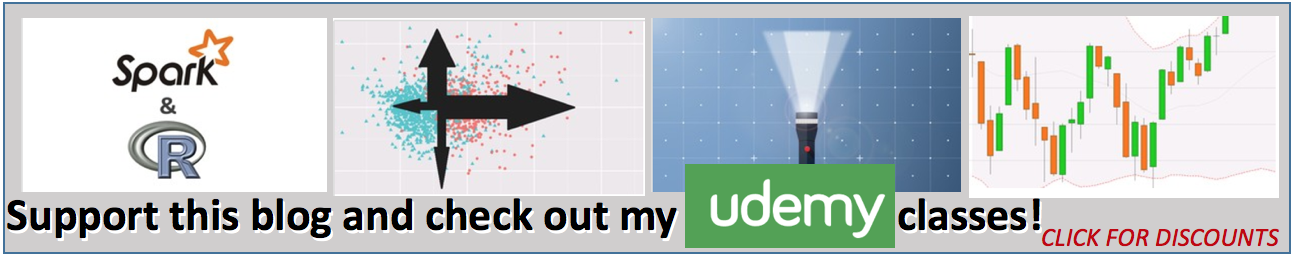
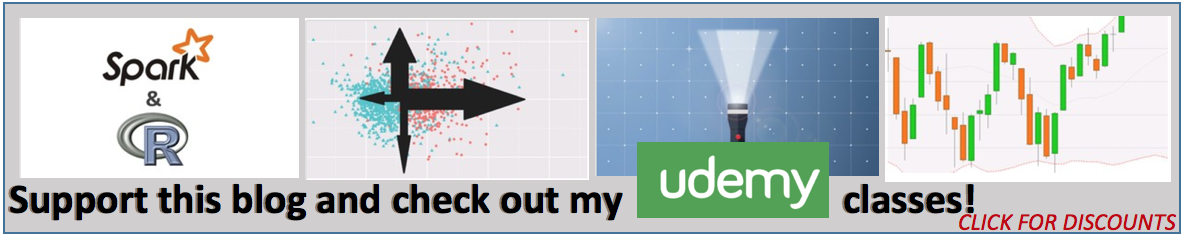
ups

diff --git a/index.html b/index.html
@@ -46,7 +46,7 @@
       <div class="blog-header">
         <p style="text-align:center">
           <a href='udemy/index.html'>
-            <img src="udemy_ad2.png" alt="Udemy Classes" 
+            <img src="udemy_ad.png" alt="Udemy Classes" 
                    style='padding:1px; border:0px solid #021a40; width: 50%; height: 50%'>
             </a>
         </p>
